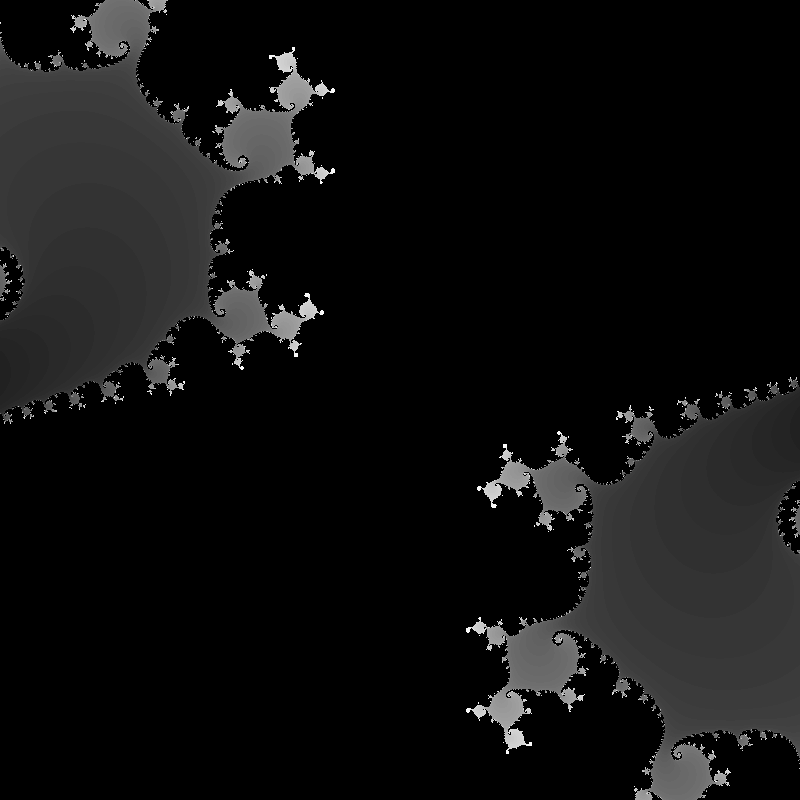
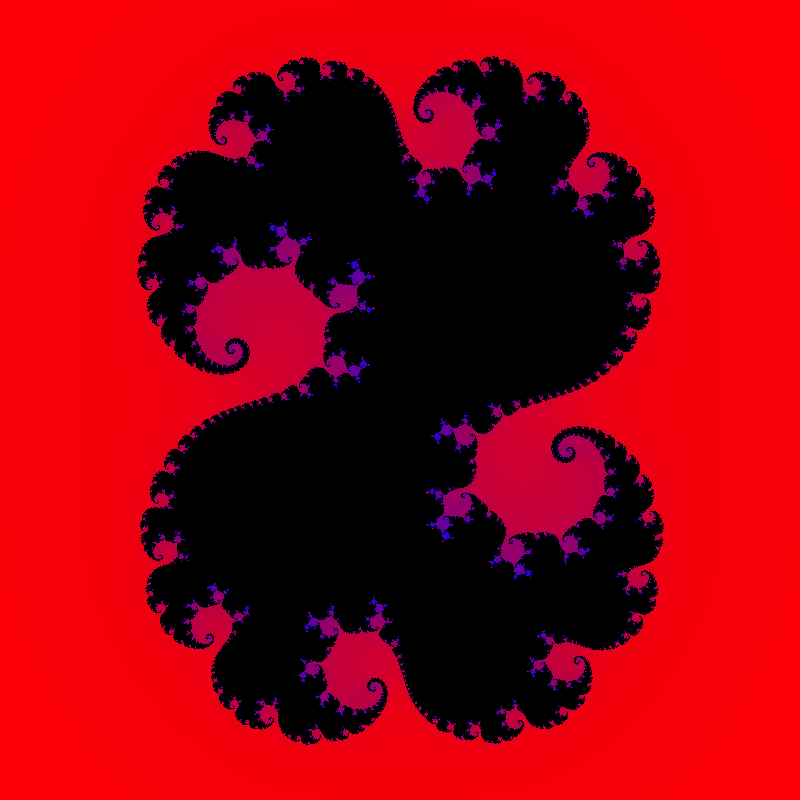
Taking LUT value and dong a lerp between red and blue

diff --git a/base/Fractal.C b/base/Fractal.C
@@ -73,7 +73,16 @@ void image::juliaSet(const ImgProc& in,
 
             if (mod2(P) <= radius) { out.SetValue(i, j, black); }
             else { 
-                std::vector<float> color(in.GetNc(), LUT[n]);
+                float t = LUT[n];
+
+                std::vector<float> red  = {1,0,0};
+                std::vector<float> blue = {0,0,1};
+                
+                std::vector<float> color(in.GetNc(), 0);
+                for (int k = 0; k < 3; k++) {
+                    color[k] = (1 - t) * red[k] + t * blue[k];
+                }
+
                 out.SetValue(i, j, color);
             }
 

diff --git a/base/test.C b/base/test.C
@@ -14,7 +14,7 @@ int main() {
 
     float radius = 4;
     float bounds = 5;
-    float zoom = 0.1;
+    float zoom = 0.25;
     float N = 100;
     // circle(temp, display, radius, bounds, zoom);
     juliaSet(temp, display, radius, bounds, zoom, N);
